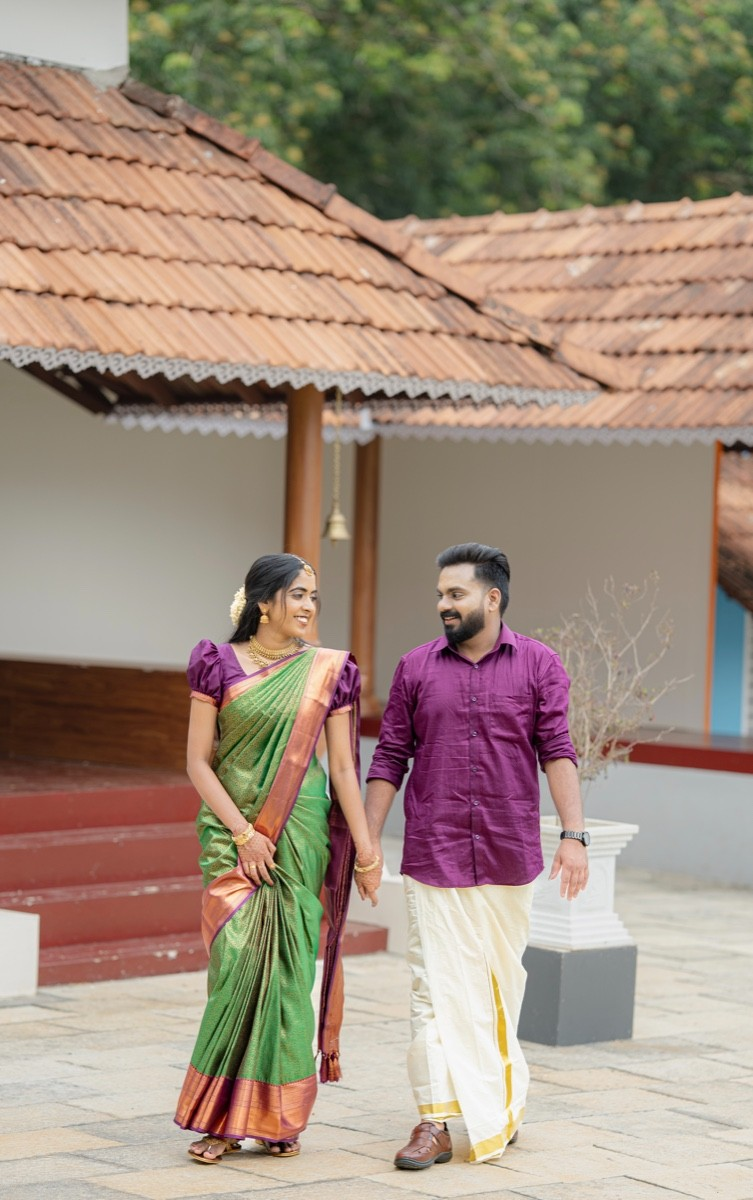
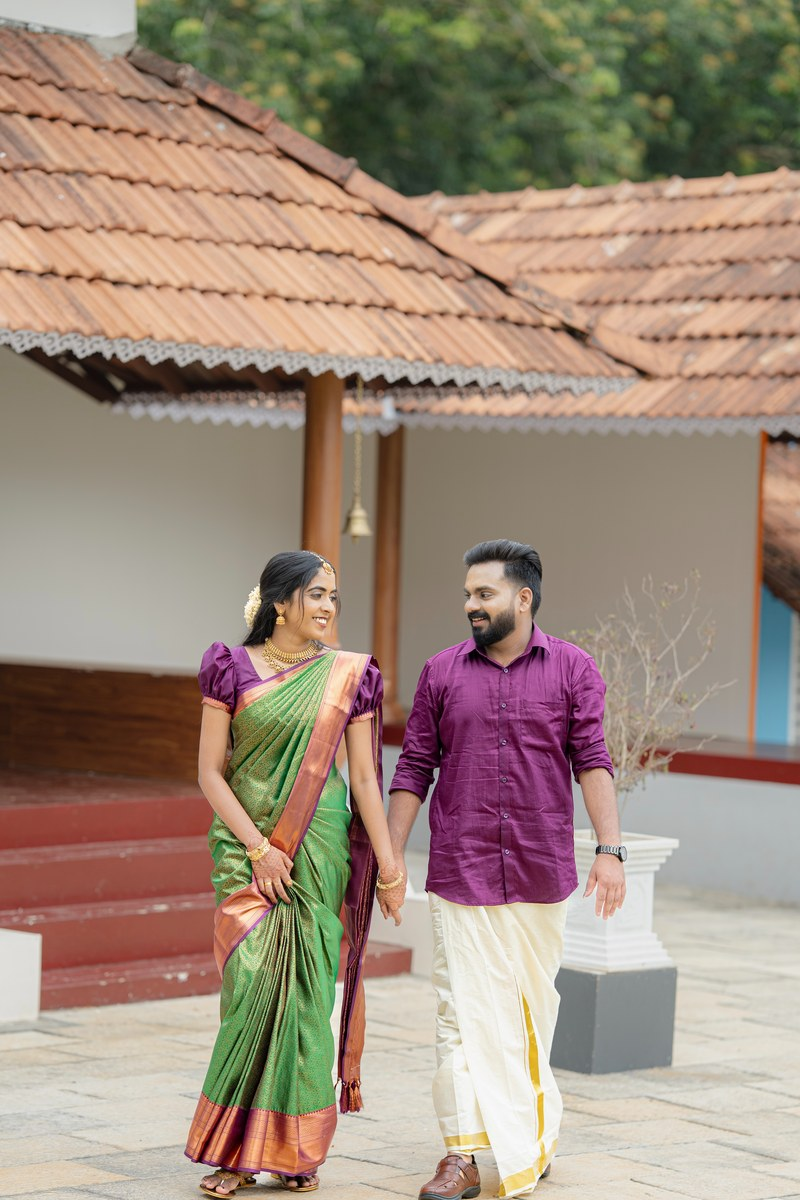
Fix WhatsApp mobile preview: optimize portrait image to standard 800x1200 with cache busting

diff --git a/index.html b/index.html
@@ -1,5 +1,5 @@
 <!DOCTYPE html>
-<html lang="en">
+<html lang="en" prefix="og: https://ogp.me/ns#">
   <head>
     <meta charset="UTF-8" />
     <meta name="viewport" content="width=device-width, initial-scale=1.0, maximum-scale=5.0" />
@@ -14,10 +14,10 @@
     <meta property="og:site_name" content="Archana &amp; Mrinal Wedding" />
     <meta property="og:title" content="Wedding Invitation | Archana &amp; Mrinal" />
     <meta property="og:description" content="Together with our families, we joyfully invite you to celebrate the wedding of Archana &amp; Mrinal on 13 December 2026." />
-    <meta property="og:image" content="https://archana-mrinal.vercel.app/preview.jpg" />
-    <meta property="og:image:secure_url" content="https://archana-mrinal.vercel.app/preview.jpg" />
+    <meta property="og:image" content="https://archana-mrinal.vercel.app/preview.jpg?v=2" />
+    <meta property="og:image:secure_url" content="https://archana-mrinal.vercel.app/preview.jpg?v=2" />
     <meta property="og:image:type" content="image/jpeg" />
-    <meta property="og:image:width" content="753" />
+    <meta property="og:image:width" content="800" />
     <meta property="og:image:height" content="1200" />
     <meta property="og:image:alt" content="Archana &amp; Mrinal" />
 
@@ -27,13 +27,13 @@
     <meta name="twitter:url" content="https://archana-mrinal.vercel.app/" />
     <meta name="twitter:title" content="Wedding Invitation | Archana &amp; Mrinal" />
     <meta name="twitter:description" content="Together with our families, we joyfully invite you to celebrate the wedding of Archana &amp; Mrinal on 13 December 2026." />
-    <meta name="twitter:image" content="https://archana-mrinal.vercel.app/preview.jpg" />
+    <meta name="twitter:image" content="https://archana-mrinal.vercel.app/preview.jpg?v=2" />
     <meta name="twitter:image:alt" content="Archana &amp; Mrinal" />
 
     <!-- General / Fallback Preview -->
     <link rel="canonical" href="https://archana-mrinal.vercel.app/" />
-    <link rel="image_src" href="https://archana-mrinal.vercel.app/preview.jpg" />
-    <meta itemprop="image" content="https://archana-mrinal.vercel.app/preview.jpg" />
+    <link rel="image_src" href="https://archana-mrinal.vercel.app/preview.jpg?v=2" />
+    <meta itemprop="image" content="https://archana-mrinal.vercel.app/preview.jpg?v=2" />
     
     <!-- Google Fonts Preconnect -->
     <link rel="preconnect" href="https://fonts.googleapis.com" />
